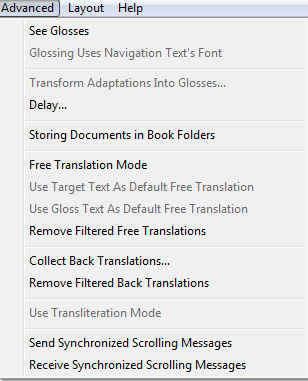
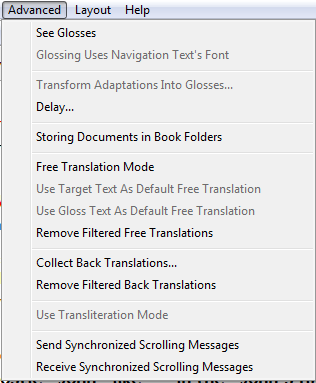
First set of changes to reflect the current status of the help files. Added a disclaimer to Using_Adapt_It.htm and a new Change log document Help_File_Updates.htm
Updated images of the the various User Interface menus

diff --git a/branches/ai_codefixes/hlp/Using_Adapt_It.htm b/branches/ai_codefixes/hlp/Using_Adapt_It.htm
@@ -9,10 +9,16 @@
 <body>
 <h2>Using Adapt It</h2>
 <h3 class="BodyText"><img border="0" hspace="0" 
-src="Important_Icon.gif" width=10 height=10>Notice: The Adapt It help files are 
-in the process of&nbsp;revision.&nbsp; This means that many of the documents are 
-true about pre 6.0 release versions of Adapt It and may not apply to release 
-6.0. We hope to make improved versions of the help files available as they are completed. Please be patient and provide us with feedback of errors that are not just due to Version difference.</h3>
+src="Important_Icon.gif" width=10 height=10>Notice: The Adapt It help files are in the 
+process of&nbsp;revision.&nbsp; This means that many of the documents are true 
+about pre 6.0 release versions of Adapt It and may not apply to release 6.0. We 
+hope to make improved versions of the help files available as they are 
+completed. Please be patient and provide us with feedback of errors that are not 
+just due to Version difference. You can view the latest changes by going to <a 
+href="Help_File_Updates.htm">Help File Updates</a>       
+            
+               
+                                 </h3>
 <h3 class="BodyText">                                Thank you.</h3>
 <p class="BodyText">Adapt It is a unique application designed to assist in the translation (or adaptation) of a document in one language to a related language. The following topics explain aspects of Adapt It more fully:</p>
 <ul>
